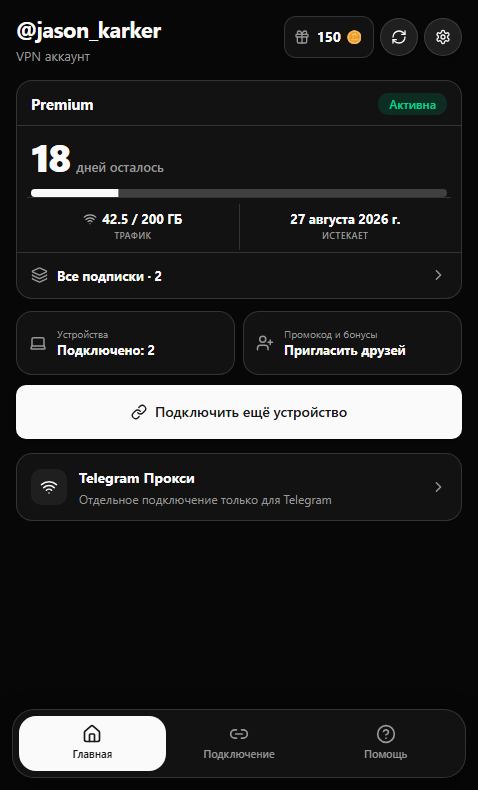
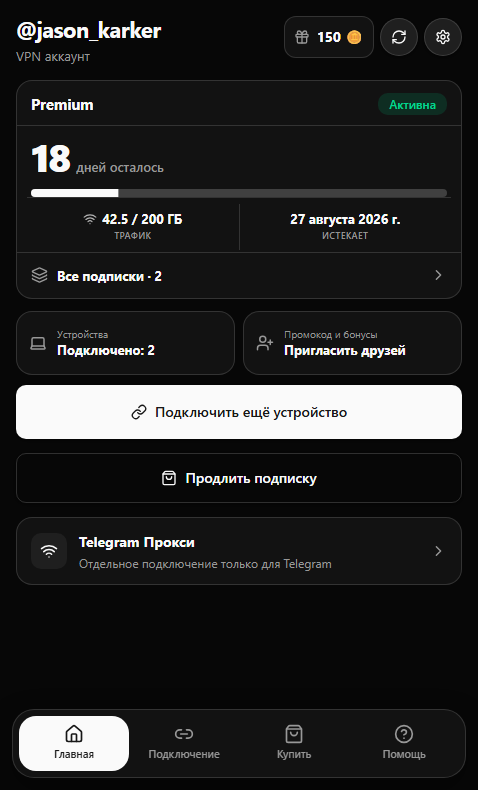
fix: restore miniapp purchase entry points

diff --git a/web/apps/miniapp/src/pages/BuyMenuPage.tsx b/web/apps/miniapp/src/pages/BuyMenuPage.tsx
@@ -184,25 +184,27 @@ export default function BuyMenuPage() {
     <>
       <div className="page">
         <div style={{ display: "flex", alignItems: "center", gap: 10, marginBottom: 18 }}>
-          <button
-            onClick={() => navigate("/")}
-            style={{
-              display: "inline-flex",
-              alignItems: "center",
-              justifyContent: "center",
-              width: 36,
-              height: 36,
-              borderRadius: 12,
-              background: "rgba(255,255,255,0.07)",
-              border: "1px solid rgba(255,255,255,0.13)",
-              color: "rgba(255,255,255,0.75)",
-              cursor: "pointer",
-              outline: "none",
-              flexShrink: 0,
-            }}
-          >
-            <ChevronLeft style={{ width: 16, height: 16 }} />
-          </button>
+          {subscriptionId && (
+            <button
+              onClick={() => navigate("/")}
+              style={{
+                display: "inline-flex",
+                alignItems: "center",
+                justifyContent: "center",
+                width: 36,
+                height: 36,
+                borderRadius: 12,
+                background: "rgba(255,255,255,0.07)",
+                border: "1px solid rgba(255,255,255,0.13)",
+                color: "rgba(255,255,255,0.75)",
+                cursor: "pointer",
+                outline: "none",
+                flexShrink: 0,
+              }}
+            >
+              <ChevronLeft style={{ width: 16, height: 16 }} />
+            </button>
+          )}
           <span style={{ fontSize: 20, fontWeight: 700, color: "#FFFFFF", letterSpacing: "-0.3px" }}>
             {t("buy.title")}
           </span>

diff --git a/web/apps/miniapp/src/theme.css b/web/apps/miniapp/src/theme.css
@@ -646,6 +646,7 @@ summary:focus-visible {
 }
 
 .home-primary-cta { min-height: 54px; margin-bottom: 4px; }
+.home-renew-cta { min-height: 50px; margin-bottom: 4px; }
 .home-header { display: flex; align-items: flex-start; justify-content: space-between; gap: 10px; margin-bottom: 14px; }
 .home-identity { flex: 1 1 auto; width: 0; min-width: 0; }
 .home-username { display: block; width: 100%; max-width: 100%; border: 0; border-radius: var(--radius-sm); background: transparent; color: var(--foreground); padding: 2px 4px; margin: -2px -4px 0; font: inherit; font-size: clamp(19px, 5.3vw, 22px); font-weight: 700; letter-spacing: -.02em; line-height: 1.2; overflow: visible; overflow-wrap: anywhere; white-space: normal; cursor: pointer; text-align: left; transition: background-color .16s ease; }

diff --git a/web/apps/miniapp/src/pages/HomePage.tsx b/web/apps/miniapp/src/pages/HomePage.tsx
@@ -7,6 +7,7 @@ import {
   LogIn,
   RefreshCw,
   Settings,
+  ShoppingBag,
   UserPlus,
   Wifi,
 } from "lucide-react";
@@ -129,6 +130,13 @@ export default function HomePage({ me, reload, refresh }: Props) {
               ? (hasConnected ? t("home.connectAnother") : t("home.setupVpn"))
               : t("home.resume")}
           </Button>
+
+          {isActive && (
+            <Button size="lg" variant="outline" className="w-full home-renew-cta" onClick={() => navigate(`/buy${targetQuery}`)}>
+              <ShoppingBag />
+              {t("home.extend")}
+            </Button>
+          )}
 
           <button className="home-row" onClick={() => navigate("/free/telemt")}>
             <span className="home-row__icon"><Wifi /></span>

diff --git a/web/apps/miniapp/src/components/BottomTabs.tsx b/web/apps/miniapp/src/components/BottomTabs.tsx
@@ -1,10 +1,11 @@
-import { CircleHelp, Home, Link2 } from "lucide-react";
+import { CircleHelp, Home, Link2, ShoppingBag } from "lucide-react";
 import { useLocation, useNavigate } from "react-router";
 import { useT } from "../i18n/LocaleContext";
 
 const TABS = [
   { path: "/", icon: <Home />, labelKey: "tabs.home" },
   { path: "/connect", icon: <Link2 />, labelKey: "tabs.connect" },
+  { path: "/buy", icon: <ShoppingBag />, labelKey: "tabs.buy" },
   { path: "/support", icon: <CircleHelp />, labelKey: "tabs.help" },
 ] as const;
 

diff --git a/web/apps/miniapp/src/i18n/ru.ts b/web/apps/miniapp/src/i18n/ru.ts
@@ -371,6 +371,7 @@ export const ru: Messages = {
   "legal.agreement.callout":
     "Используя сервис {brand}, вы подтверждаете, что ознакомились и согласны с условиями данного соглашения.",
   "tabs.connect": "Подключение",
+  "tabs.buy": "Купить",
   "tabs.help": "Помощь",
   "home.setupVpn": "Настроить VPN",
   "home.connectAnother": "Подключить ещё устройство",

diff --git a/web/apps/miniapp/src/App.tsx b/web/apps/miniapp/src/App.tsx
@@ -89,7 +89,7 @@ function AppRoutes({
     return <Navigate to="/onboarding" replace />;
   }
 
-  const showTabs = pathname === "/" || pathname === "/connect" || pathname === "/support";
+  const showTabs = pathname === "/" || pathname === "/connect" || pathname === "/buy" || pathname === "/support";
 
   return (
     <div className="app">

diff --git a/web/apps/miniapp/src/i18n/en.ts b/web/apps/miniapp/src/i18n/en.ts
@@ -371,6 +371,7 @@ export const en: Messages = {
   "legal.agreement.callout":
     "By using {brand}, you confirm that you have read and agree to these terms.",
   "tabs.connect": "Connect",
+  "tabs.buy": "Buy",
   "tabs.help": "Help",
   "home.setupVpn": "Set up VPN",
   "home.connectAnother": "Connect another device",
